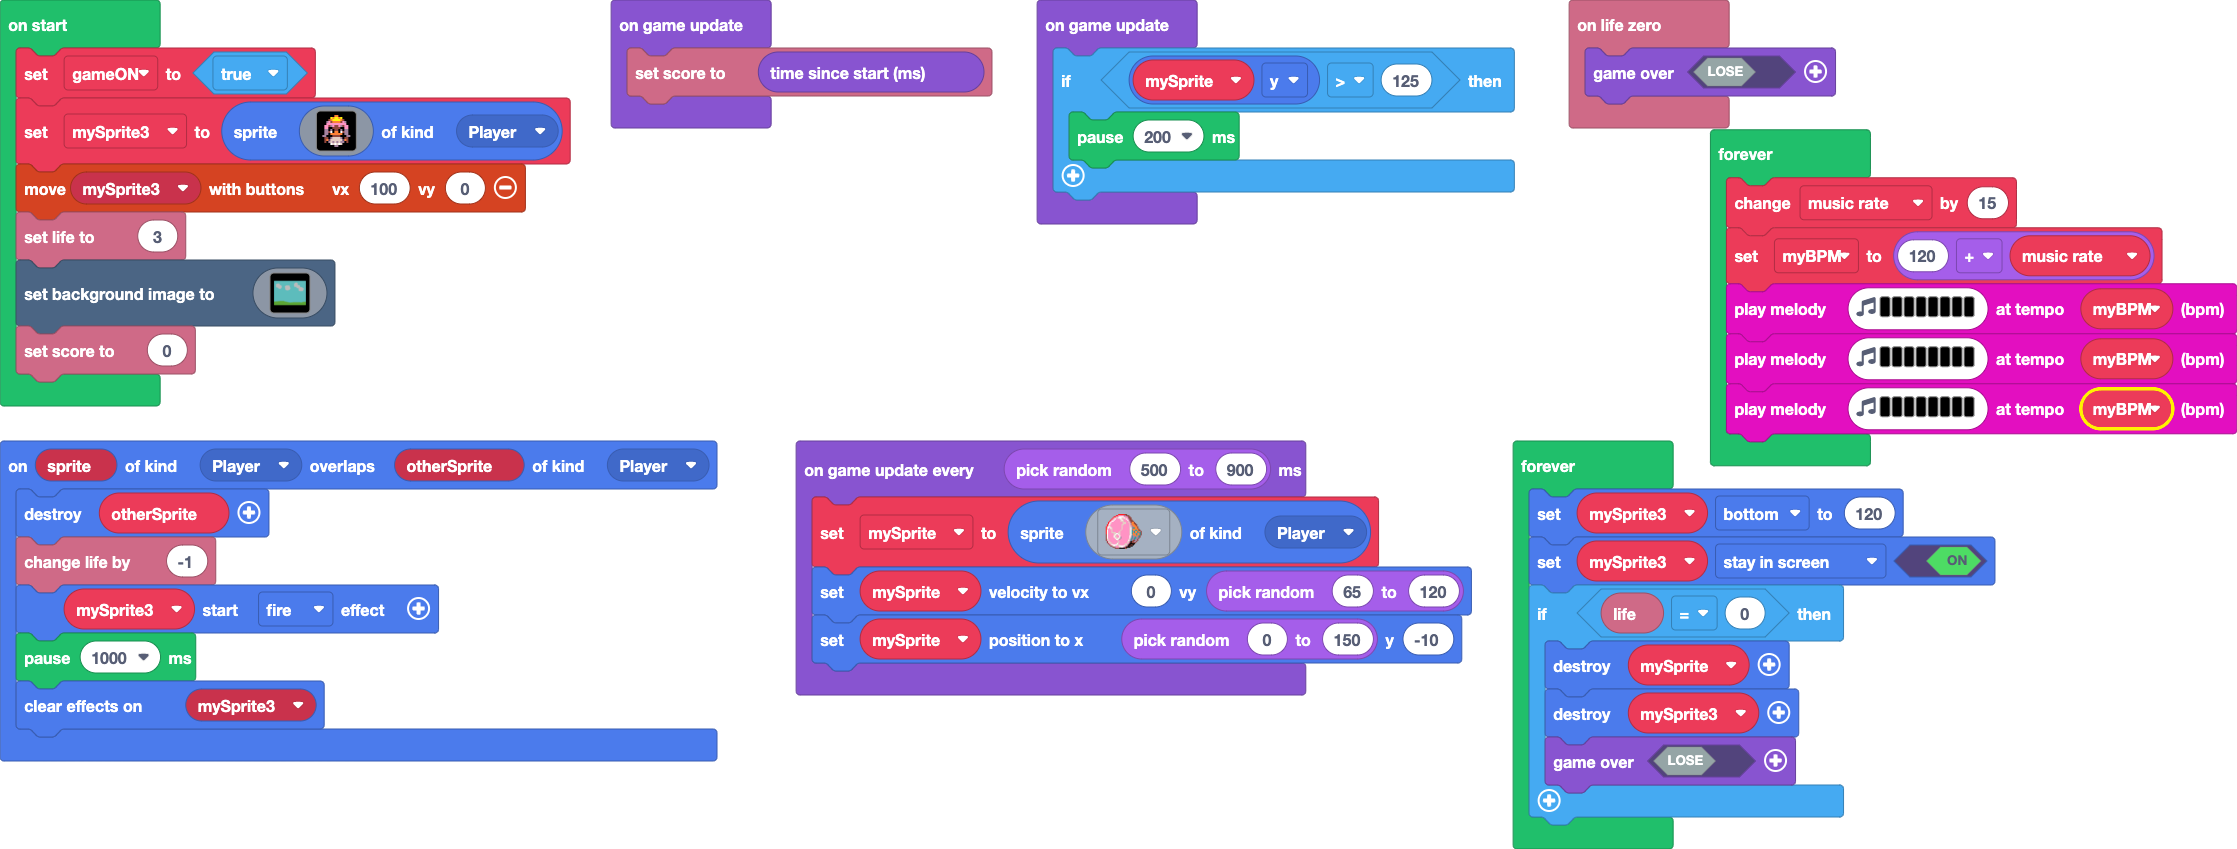
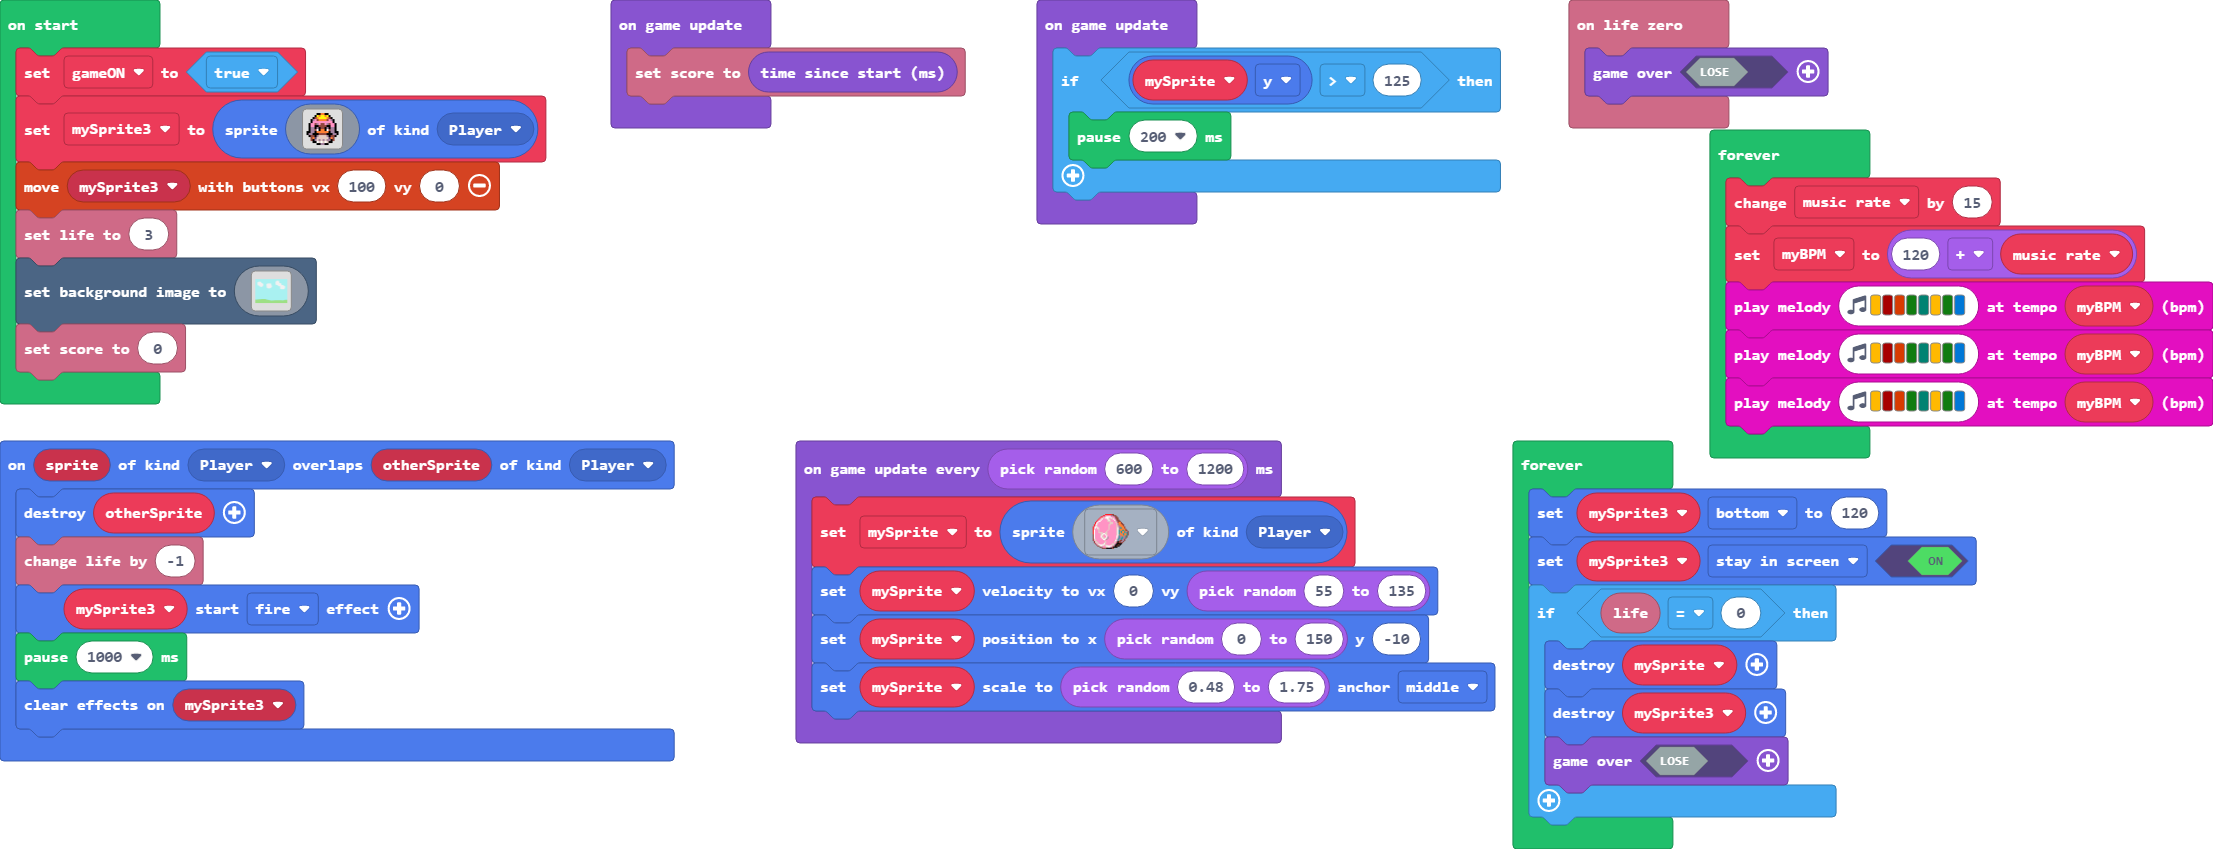
Adjusted the scale, speed and spawn rate of the hams.

diff --git a/main.ts b/main.ts
@@ -170,10 +170,11 @@ game.onUpdate(function () {
         pause(200)
     }
 })
-game.onUpdateInterval(randint(500, 900), function () {
+game.onUpdateInterval(randint(600, 1200), function () {
     mySprite = sprites.create(sprites.food.bigHam, SpriteKindLegacy.Projectile)
-    mySprite.setVelocity(0, randint(65, 120))
+    mySprite.setVelocity(0, randint(55, 135))
     mySprite.setPosition(randint(0, 150), -10)
+    mySprite.setScale(randint(0.48, 1.75), ScaleAnchor.Middle)
 })
 forever(function () {
     music_rate += 15
